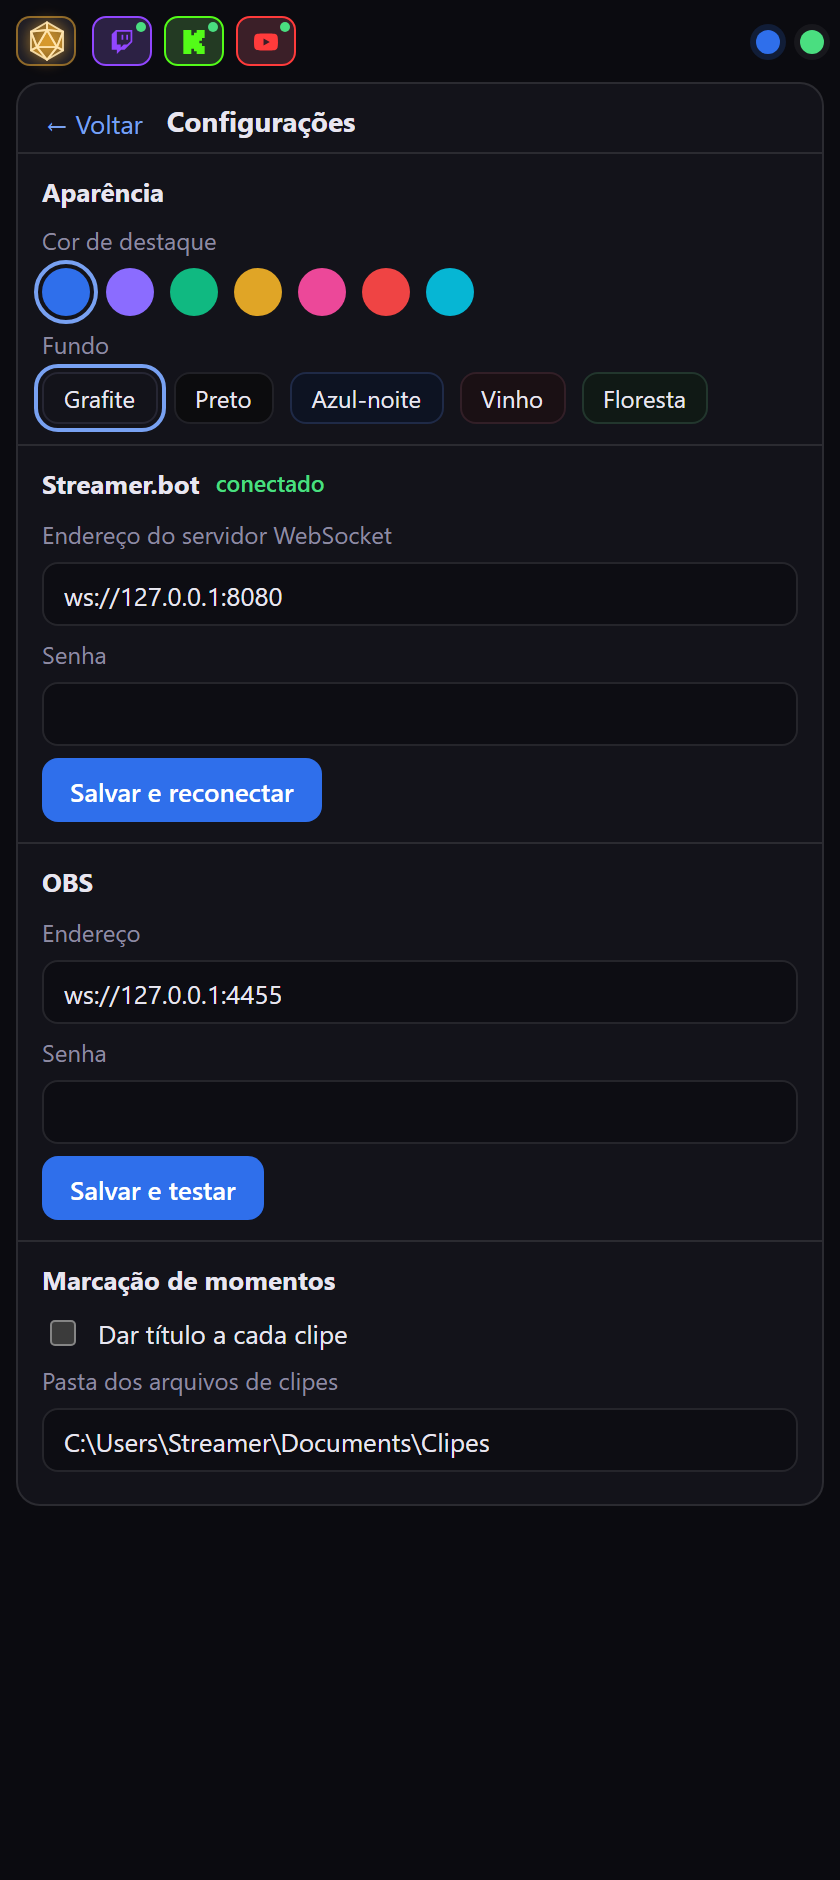
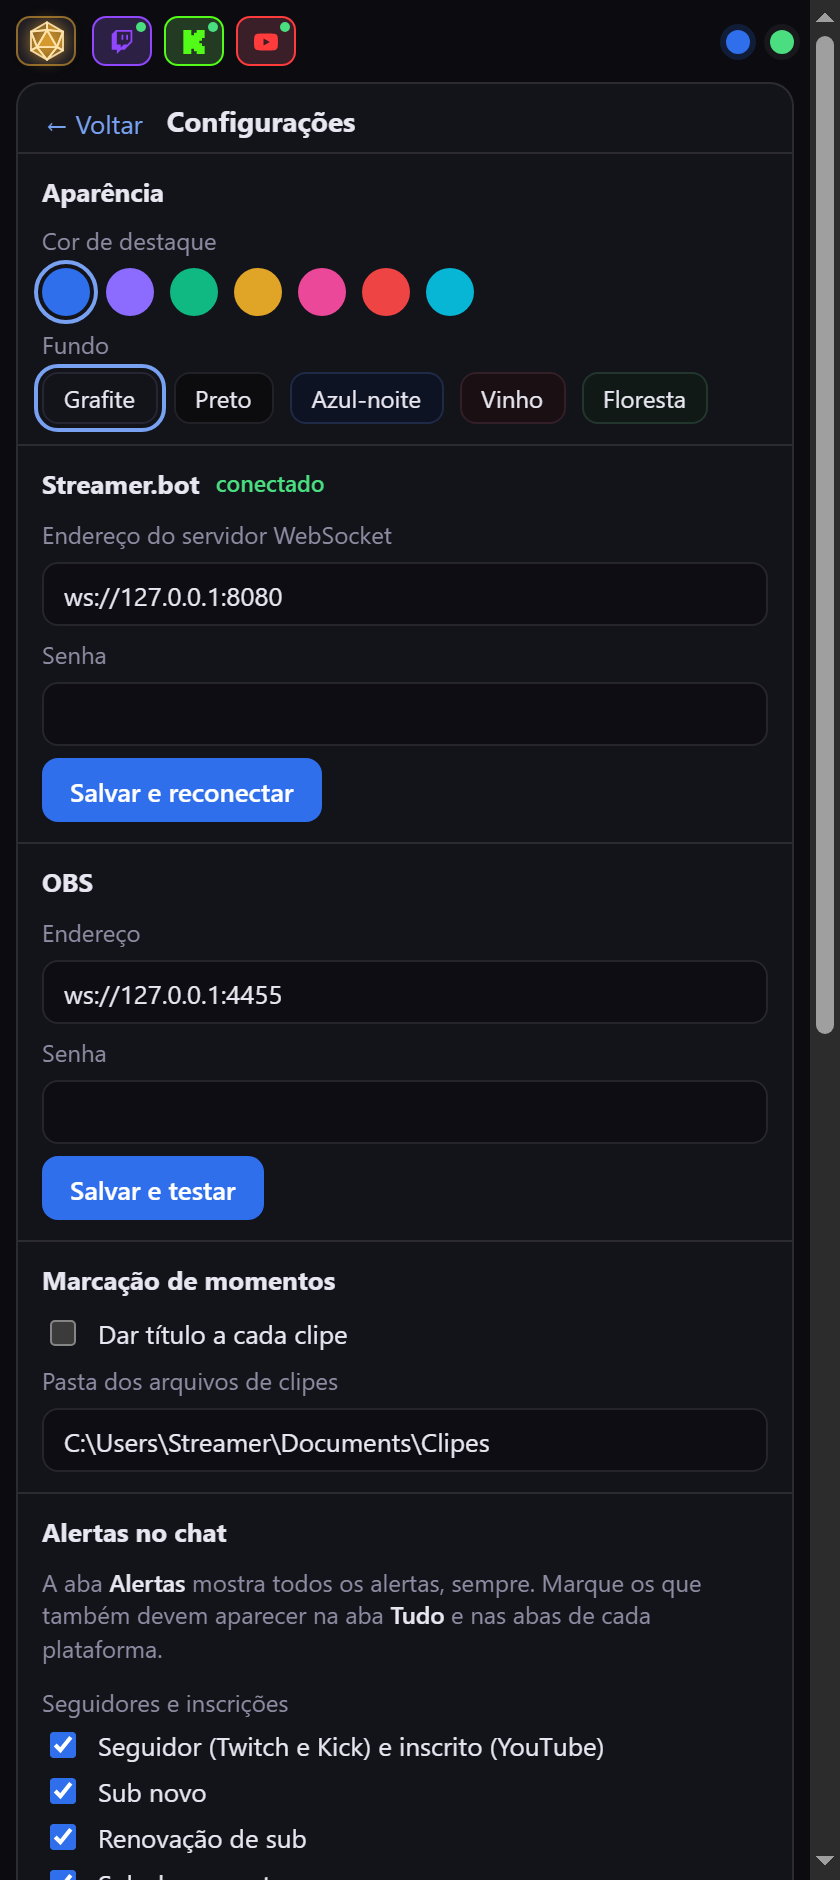
Docs: resgates de pontos, escolha dos alertas e aviso de anúncio no README, nas Instruções e nas imagens

diff --git a/README.md b/README.md
@@ -38,7 +38,10 @@ no seu computador: não há servidor, conta, cadastro nem chave de API.
 - **Confirmação de verdade:** depois de mudar título e categoria, o painel espera a plataforma avisar e mostra o que ela
   realmente aplicou (amarelo quando ficou diferente do digitado).
 - **Chat com moderação:** apagar, silenciar e banir com um clique, desfazer punições, busca, filtro por usuário, mensagens
-  fixadas e alertas no mesmo feed.
+  fixadas e alertas no mesmo feed, com **resgates de pontos** (Twitch e Kick) em destaque e **você escolhendo** quais alertas
+  aparecem em cada aba.
+- **Aviso de anúncio da Twitch:** um pop-up pequeno com a contagem regressiva e o botão **Adiar 5 min**, para o anúncio não pegar
+  você no meio de uma cena.
 - **Tags da Twitch que você vê e edita:** o painel lê as tags atuais do canal, e você exclui ou adiciona antes de aplicar.
 - **Marcação de momentos:** um clique anota o tempo da live num arquivo de texto, para você achar os melhores trechos depois.
 - **Instala em dois cliques** (Windows) e **não precisa de nada instalado** além do OBS e do Streamer.bot.
@@ -153,18 +156,24 @@ Mensagens e alertas das três plataformas num feed só, com abas **Tudo**, **Twi
 
 - **Leitura:** cor do nome, insígnias e emotes (quando a plataforma os entrega como imagem), marca de **primeira mensagem** e
   mensagens apagadas ou de quem foi punido **riscadas**. O feed guarda as últimas 400 linhas.
-- **Alertas** no mesmo feed: a aba **Tudo** mostra, junto das mensagens, só o que importa na hora: seguidores, inscrições (novas,
-  renovações e presentes), Bits, raids, resgates de pontos, Hype Chat, Super Chat, Super Sticker, presentes e membros. Hype train,
-  enquetes e previsões, o **aviso de anúncio** (a Twitch avisa uma vez por minuto nos 5 minutos antes) e os avisos de moderação
-  (banido, silenciado, chat limpo) aparecem só na aba **Alertas**, que mostra todos. A lista fica em `src/alertas.js`. As abas **Twitch**, **Kick** e **YouTube** mostram o mesmo que a **Tudo**, só daquela plataforma. Em **Configurações > Alertas no chat** você
-  escolhe, tipo por tipo, quais alertas aparecem na **Tudo** e nas abas de plataforma (a aba **Alertas** mostra todos, sempre); o padrão é o
-  descrito acima e há o botão **Voltar ao padrão**. O **resgate de
-  pontos** (da Twitch, inclusive as recompensas padrão como mensagem em destaque, emotes e efeitos, e da Kick) ganha um fundo na cor
-  da plataforma para se destacar dos outros alertas.
-- **Aviso de anúncio (Twitch):** um pop-up compacto (uma linha de 32 px) por cima do dock, com a contagem regressiva, quando faltam 15,
-  30, 45 ou 60 segundos para o anúncio. **Adiar 5 min** empurra o anúncio (a Twitch só permite adiar, não cancelar, e enquanto houver adiamentos) pela ação
-  `Painel: Anuncio`; **Deixar rodar** dispensa o aviso. Vem **desligado**, em Configurações > Aviso de anúncio, onde também há o
-  botão **Testar o aviso**.
+- **Alertas** no mesmo feed: a aba **Alertas** mostra todos, sempre. A aba **Tudo** mostra, junto das mensagens, só o que importa
+  na hora: seguidores, inscrições (novas, renovações e presentes), Bits, raids, resgates de pontos, Hype Chat, Super Chat, Super
+  Sticker, presentes e membros. Hype train, enquetes e previsões, o **aviso de anúncio** (a Twitch avisa uma vez por minuto nos 5
+  minutos antes) e os avisos de moderação (banido, silenciado, chat limpo) ficam só na aba **Alertas**. As abas **Twitch**,
+  **Kick** e **YouTube** mostram o mesmo que a **Tudo**, só daquela plataforma. A lista de partida fica em
+  [`src/alertas.js`](src/alertas.js).
+- **Você escolhe o que aparece:** em **Configurações > Alertas no chat** (veja [abaixo](#configurações-e-tema)) cada tipo de alerta
+  tem uma caixa que o liga ou desliga na **Tudo** e nas abas de plataforma. O botão **Voltar ao padrão** desfaz as suas escolhas.
+- **Resgate de pontos:** vem da Twitch (as suas recompensas e as padrão, como mensagem em destaque, emotes e efeitos) e da Kick, e
+  ganha um fundo na cor da plataforma para se destacar dos outros alertas. Os Power-ups pagos com Bits não chegam.
+- **Aviso de anúncio (Twitch):** um pop-up compacto (uma linha) por cima do dock, com a contagem regressiva, quando faltam 15, 30, 45
+  ou 60 segundos para o anúncio. **Adiar 5 min** empurra o anúncio (a Twitch só permite adiar, não cancelar, e enquanto houver
+  adiamentos) pela ação `Painel: Anuncio`; **Deixar rodar** dispensa o aviso. Vem **desligado**, em **Configurações > Aviso de
+  anúncio**, onde também há o botão **Testar o aviso**.
+
+<p align="center">
+  <img src="docs/imagens/aviso-anuncio.png" alt="O aviso de anúncio no alto do dock, com a contagem e o botão Adiar 5 min" width="340">
+</p>
 - **Moderação:** passando o mouse numa mensagem aparecem **Banir** (com confirmação), **Silenciar 5 min** e **Apagar** (não existe
   no YouTube), mais o **⋮** com todas as opções. O botão direito abre o mesmo menu: Mencionar, Copiar mensagem, Apagar,
   Silenciar 1 ou 10 minutos, Banir, Fixar e Ver só este usuário.
@@ -188,6 +197,15 @@ Clique na bolinha de estado.
 - **Streamer.bot:** endereço e senha do servidor WebSocket, com **Salvar e reconectar**.
 - **OBS:** endereço e senha do servidor WebSocket do OBS, com **Salvar e testar**, que mostra o tempo atual da live.
 - **Marcação de momentos:** título de clipe e pasta dos arquivos.
+- **Alertas no chat:** uma caixa por tipo de alerta (seguidor, sub, Bits, raid, resgate de pontos, anúncio, banimento...) para
+  decidir se ele aparece na aba **Tudo** e nas abas de plataforma. A aba **Alertas** mostra todos, sempre. As escolhas valem na
+  hora, e **Voltar ao padrão** desfaz tudo.
+- **Aviso de anúncio (Twitch):** liga o pop-up, escolhe com quantos segundos de antecedência ele aparece (15, 30, 45 ou 60) e tem o
+  botão **Testar o aviso**.
+
+<p align="center">
+  <img src="docs/imagens/configuracoes-alertas.png" alt="As seções Alertas no chat e Aviso de anúncio, nas configurações" width="340">
+</p>
 
 O dock é pensado para ficar **estreito**: ele aguenta ser a coluna ao lado do preview do OBS, com o chat ocupando o que sobrar.
 
@@ -205,14 +223,16 @@ O dock é pensado para ficar **estreito**: ele aguenta ser a coluna ao lado do p
 | Desfazer silêncio e banimento | ✓ | ✓ | — |
 | Limpar o chat (`/limpar`) | ✓ | — | — |
 | Criar e controlar enquetes e previsões | ✓ | — | — |
+| Ver resgates de pontos no chat | ✓ | ✓ | — |
+| Aviso de anúncio, com adiamento | ✓ | — | — |
 
 Os "—" são limites das plataformas ou do Streamer.bot 1.0.7, não do LiveHelm: onde a plataforma ou o Streamer.bot não oferece o
 recurso, o dock deixa o botão desligado ou ignora a plataforma.
 
 ## Configuração
 
-- **Pela tela de configurações** (bolinha de estado): endereço e senha do Streamer.bot e do OBS, tema e momentos. Tudo fica
-  guardado no armazenamento do navegador do dock, dentro do OBS.
+- **Pela tela de configurações** (bolinha de estado): endereço e senha do Streamer.bot e do OBS, tema, momentos, os alertas que
+  aparecem no chat e o aviso de anúncio. Tudo fica guardado no armazenamento do navegador do dock, dentro do OBS.
 - **Valores de partida:** [`src/config.js`](src/config.js) tem o endereço e a senha padrão do Streamer.bot (`ws://127.0.0.1:8080`) e do
   OBS (`ws://127.0.0.1:4455`). As senhas vêm **vazias**. Se você gerar o seu próprio build, não coloque senhas reais no arquivo
   se for publicá-lo em algum lugar.
@@ -240,6 +260,11 @@ recurso, o dock deixa o botão desligado ou ignora a plataforma.
 - Dos eventos do Streamer.bot, foram conferidos com dados reais as mensagens da Twitch e da Kick e o seguidor da Twitch. Os demais
   alertas (Kick, YouTube, subs, raids, hype train...) seguem a documentação e são lidos de forma tolerante: se um campo não vier, o
   texto fica sem aquele detalhe. Se algum alerta aparecer errado ou não aparecer, abra uma *issue* com o evento do log do Streamer.bot.
+  Isso vale em especial para o **resgate de pontos da Kick** e para o **aviso de anúncio** da Twitch, escritos pela documentação do
+  Streamer.bot e ainda sem teste com dados reais de todos os casos.
+- **Anúncio da Twitch:** só dá para **adiar** (em 5 minutos, e enquanto a Twitch ainda deixar), nunca cancelar. O Streamer.bot não
+  avisa de anúncios da Kick nem do YouTube, e o botão **Adiar 5 min** depende da ação `Painel: Anuncio` e da permissão de
+  gerenciar anúncios na conta da Twitch.
 - O dock não mostra avatares, e emotes de terceiros (7TV, BetterTTV, FrankerFaceZ) não são carregados: só os que a plataforma
   entrega no evento.
 - O instalador automático é só para **Windows** (o Streamer.bot também roda só nele). O dock em si é uma página e funciona em qualquer
@@ -276,7 +301,10 @@ src/Momentos.jsx         Marcação de momentos
 src/pastaClipes.js       Regra da pasta dos clipes (a mesma da ação C#; testada)
 src/Interacoes.jsx       Enquetes e previsões
 src/ChatPanel.jsx        Feed, abas, menu, moderação, busca e caixa de envio
-src/Configuracoes.jsx    Tela de configurações (tema, conexões, momentos)
+src/alertas.js           Quais alertas entram em cada aba do chat e o catálogo de tipos de alerta (puro; testado)
+src/AvisoAnuncio.jsx     Pop-up do aviso de anúncio da Twitch (contagem, Adiar 5 min, Deixar rodar)
+src/anuncios.js          Regras puras do aviso de anúncio: quando mostrar, adiar, dispensar (testado)
+src/Configuracoes.jsx    Tela de configurações (tema, conexões, momentos, alertas no chat, aviso de anúncio)
 src/acoes.js             Pedidos de ações ao Streamer.bot (os nomes e argumentos que as ações C# leem)
 src/streamerbot.js       Conexão WebSocket (senha, reconexão) e conversão dos eventos em tipos do dock
 src/obs.js               Tempo da live pelo obs-websocket v5
@@ -296,8 +324,9 @@ docs/INSTRUCOES.md       Passo a passo de instalação e configuração
 - **Nova ação do Streamer.bot:** escreva o C# em `acoes-streamerbot/`, adicione o pedido em `acoes.js` com **os mesmos nomes de
   argumentos** do C# e documente a ação na tabela de [`docs/INSTRUCOES.md`](docs/INSTRUCOES.md). Coloque a lógica que não depende de
   rede nem de React em módulos puros (como `tagsLista.js`) e teste em `tests/`.
-- **Novo alerta ou evento:** acrescente o evento em `EVENTOS_ASSINADOS` e a conversão em `ALERTAS` (`src/streamerbot.js`), e o rótulo
-  em `ROTULO_DO_ALERTA` (`ChatPanel.jsx`).
+- **Novo alerta ou evento:** acrescente o evento em `EVENTOS_ASSINADOS` e a conversão em `ALERTAS` (`src/streamerbot.js`), o rótulo
+  em `ROTULO_DO_ALERTA` (`ChatPanel.jsx`) e o tipo em `TIPOS_DE_ALERTA` (`src/alertas.js`), para ele ganhar a caixa em
+  **Configurações > Alertas no chat**. Ele só entra na aba **Tudo** por padrão se também estiver em `ALERTAS_NO_CHAT_GERAL`.
 - **Nova opção de configuração:** é uma seção nova em `configuracoes.js` (o padrão vale seção por seção) e um bloco em
   `Configuracoes.jsx`.
 

diff --git a/docs/INSTRUCOES.md b/docs/INSTRUCOES.md
@@ -315,6 +315,11 @@ nas configurações do dock, então prefira a tela de configurações).
 5. **Momentos:** com a live ou a gravação rodando, clique em **Marcar momento**. Uma linha nova entra em
    `Clipes - <título da live>.txt`.
 6. **Chat/moderação:** passe o mouse sobre uma mensagem para ver os botões; envie uma mensagem de teste pela caixa de baixo.
+7. **Alertas:** na aba **Alertas** do chat aparecem seguidores, subs, raids e resgates de pontos (na Twitch e na Kick, o resgate vem
+   com um fundo na cor da plataforma). Se um tipo que você quer não aparece na aba **Tudo**, marque-o em **Configurações > Alertas
+   no chat**.
+8. **Aviso de anúncio (opcional):** ligue em **Configurações > Aviso de anúncio** e clique em **Testar o aviso**: o pop-up aparece no
+   alto do dock. Para o **Adiar 5 min** funcionar de verdade, crie antes a ação [`Painel: Anuncio`](#painel-anuncio-adiar-o-anúncio-da-twitch-opcional).
 
 ## 8. Problemas comuns
 
